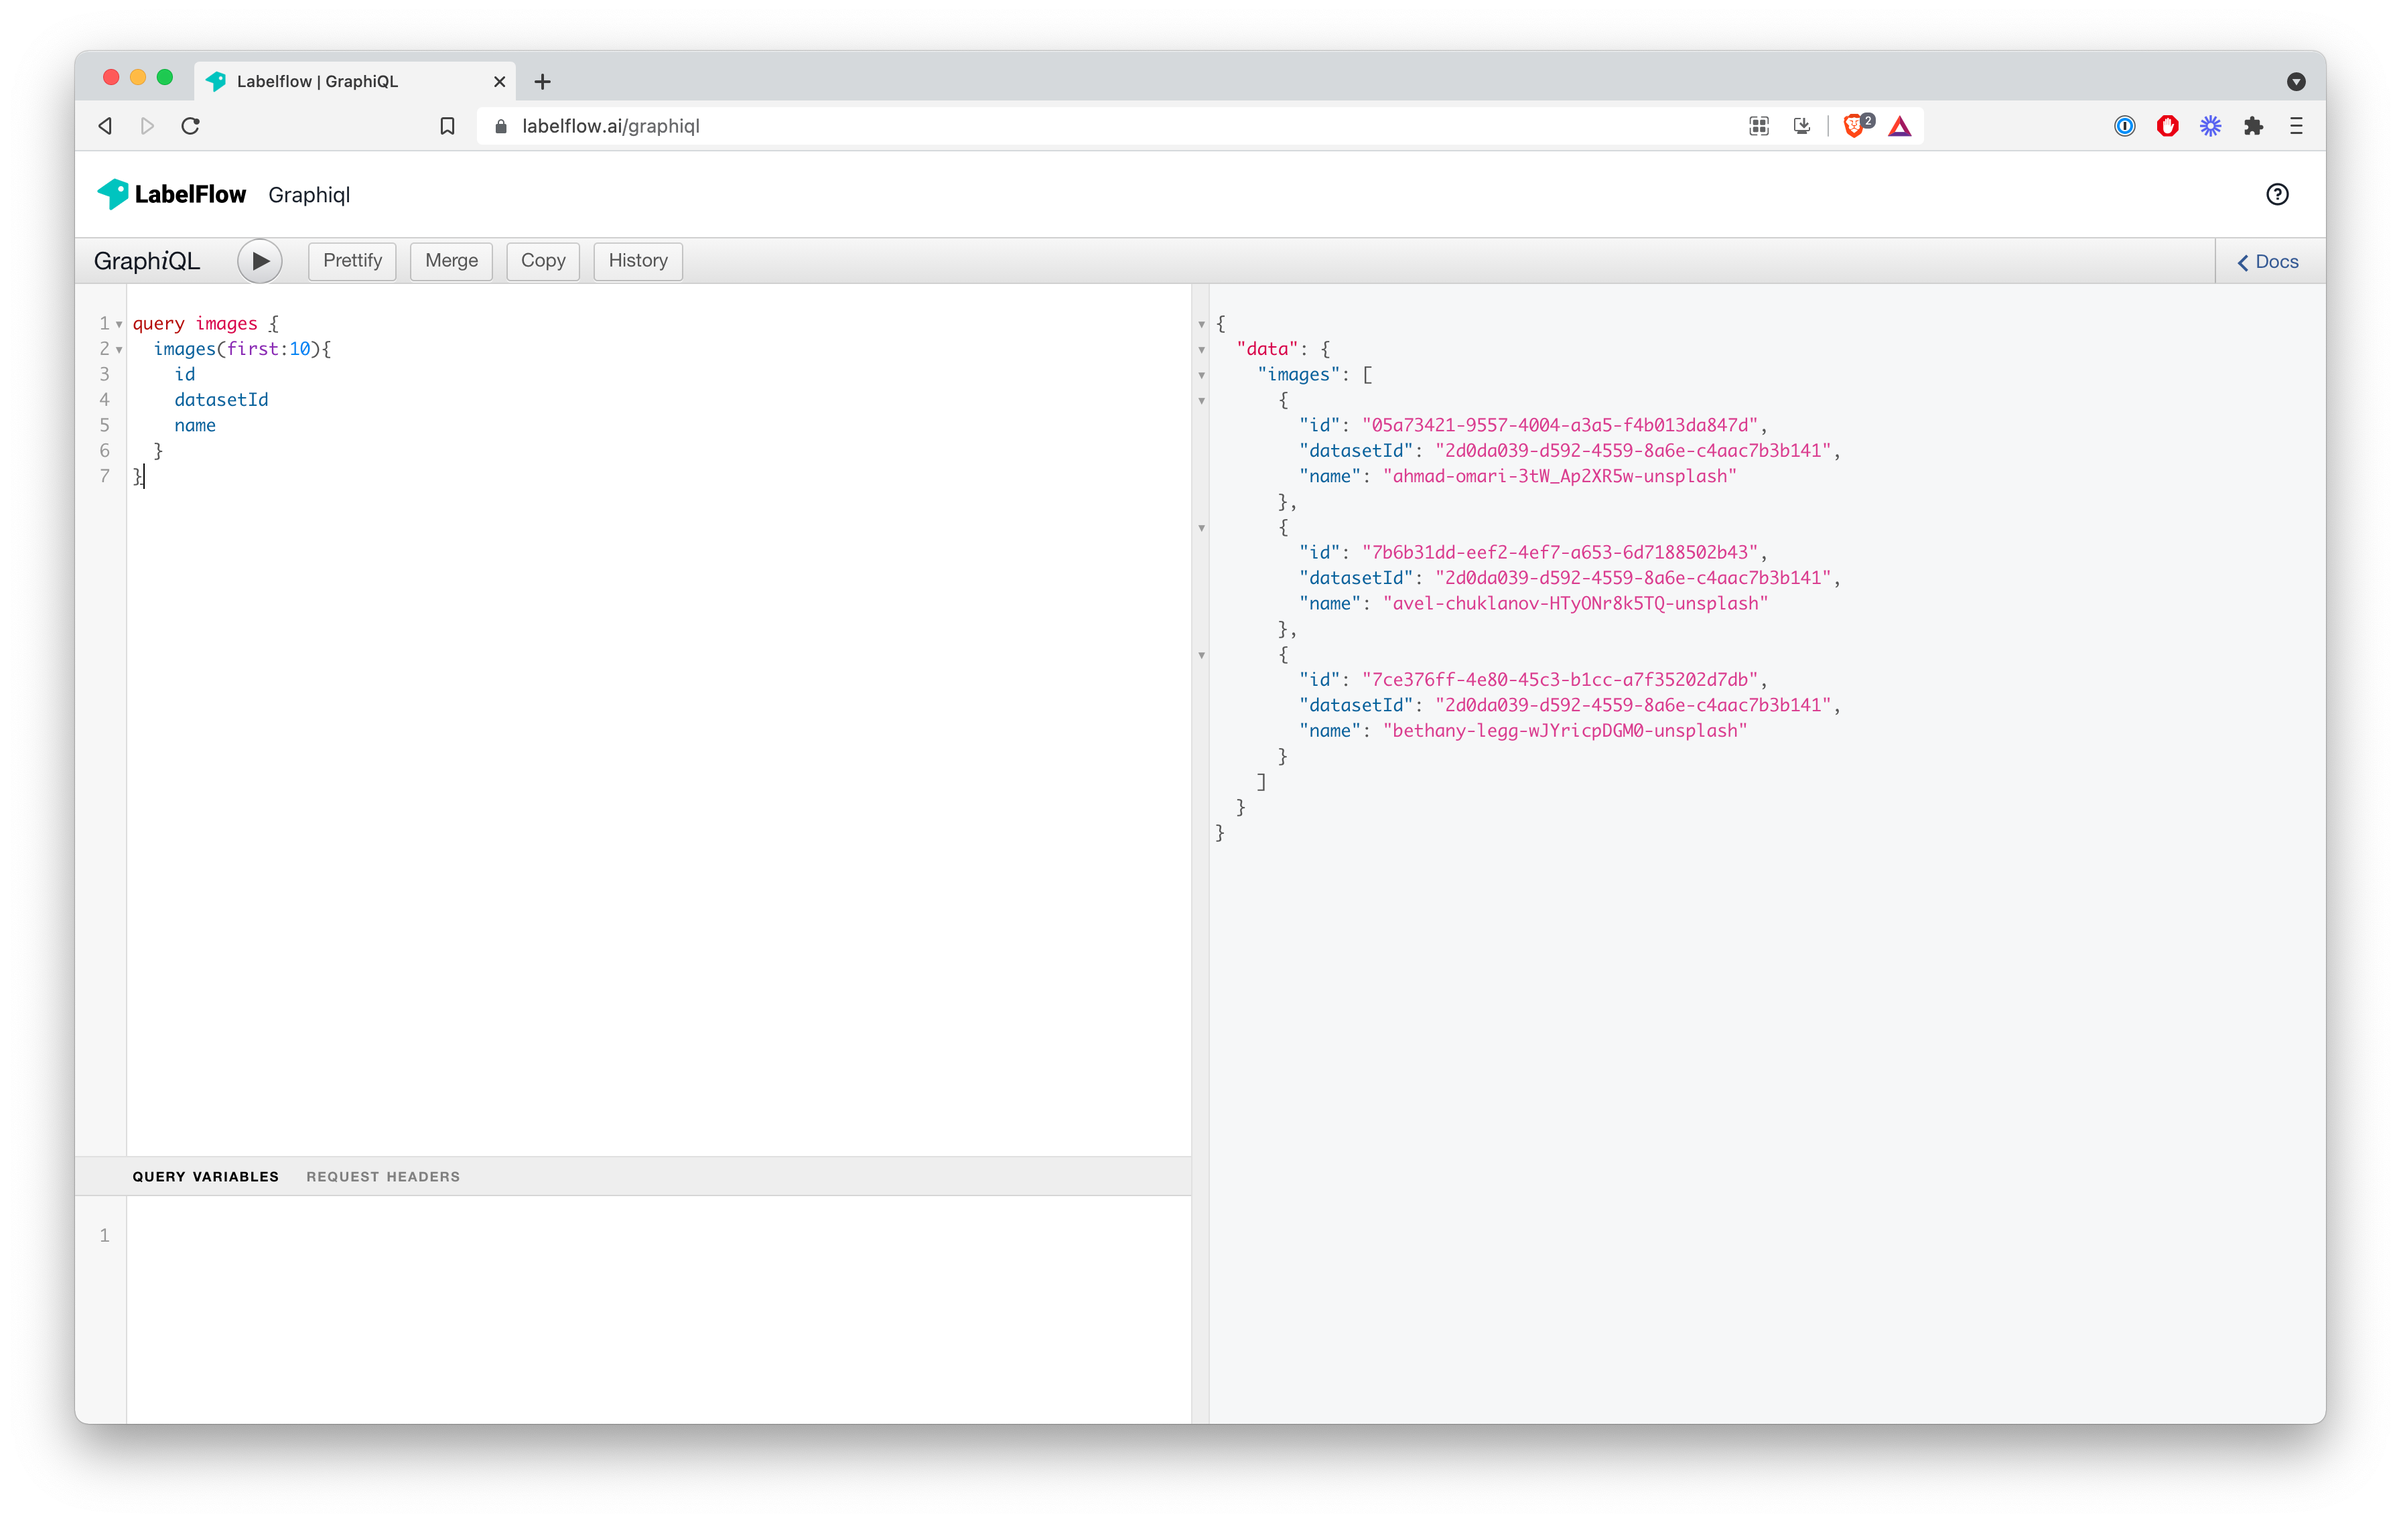
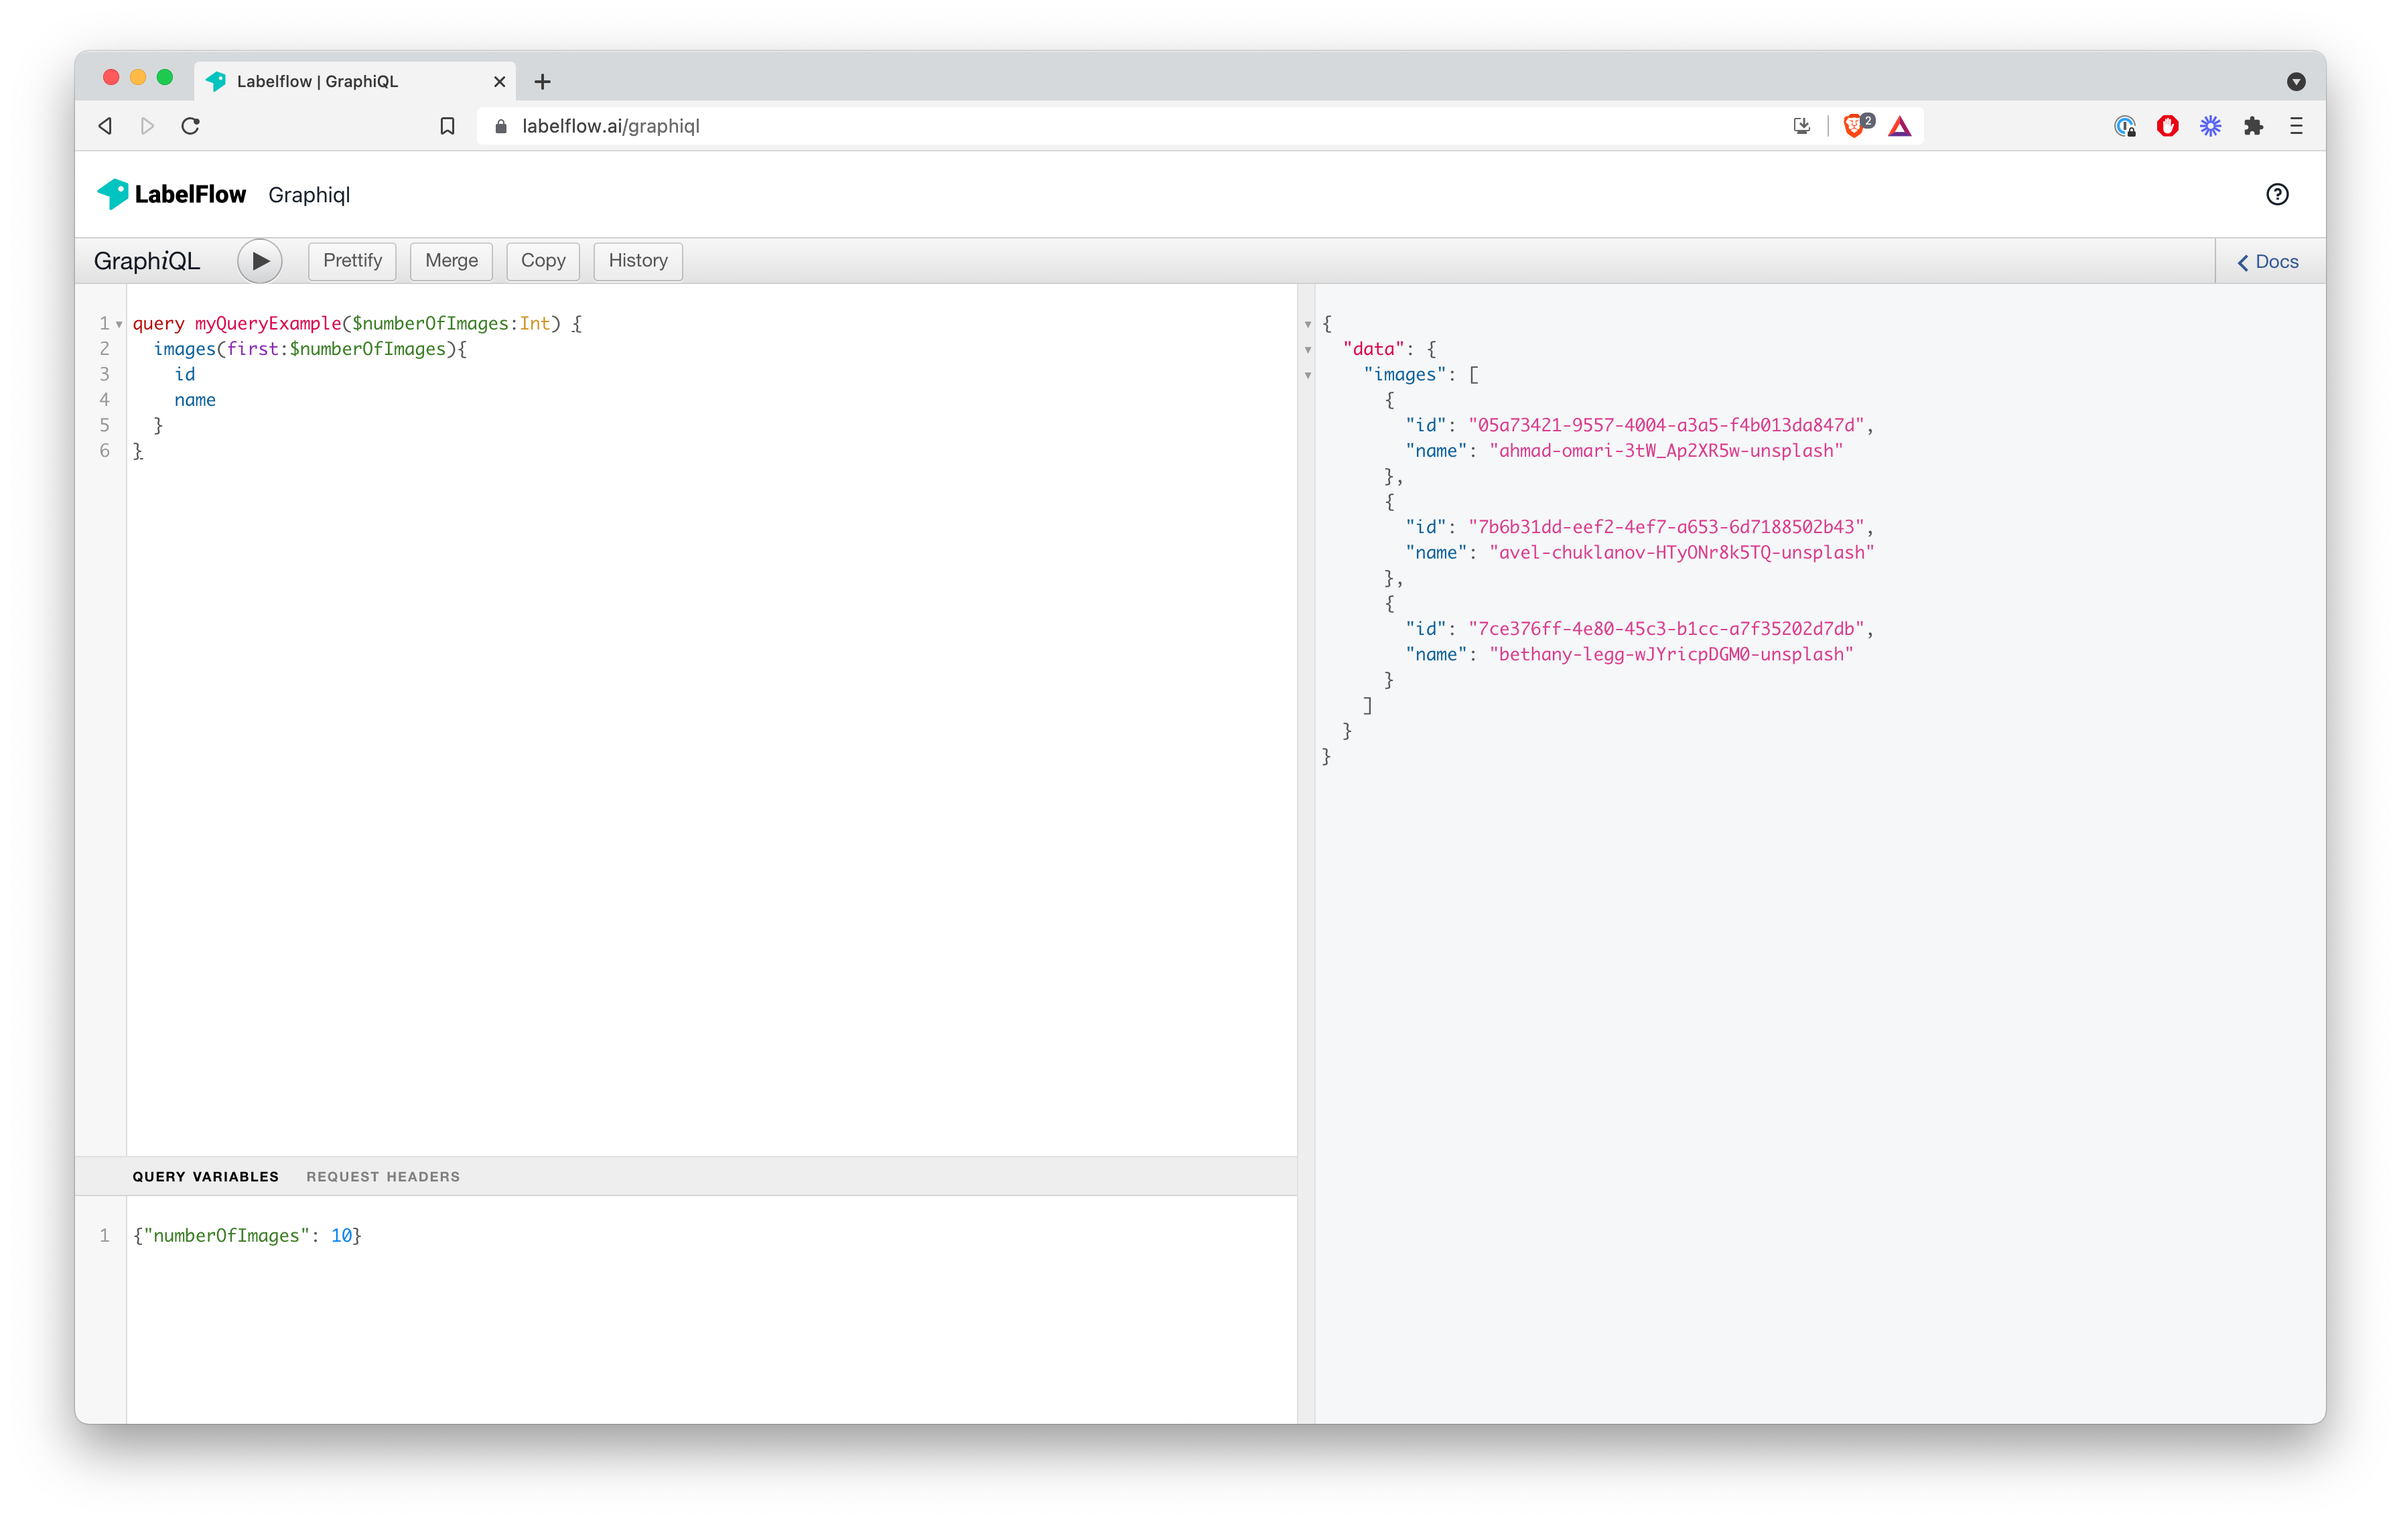
GitBook: [master] 2 pages and 4 assets modified

diff --git a/api/getting-started.md b/api/getting-started.md
@@ -4,7 +4,7 @@
 
 LabelFlow GraphQL playground is the best way to get started with the API. Just connect to [https://labelflow.ai/graphiql](https://labelflow.ai/graphiql) using any modern web browser, and get started. The interface should look like something like this.
 
-![](../.gitbook/assets/image%20%284%29.png)
+![](../.gitbook/assets/image%20%285%29.png)
 
 As the images on LabelFlow are stored locally only, there is not authentication needed. All query and mutations will be done on a database stored locally in your browser.
 
@@ -12,7 +12,7 @@ As the images on LabelFlow are stored locally only, there is not authentication 
 
 Let’s write a graphQL query which asks for the ids**,** names and dataset id of the first 10 images you have access to**:**
 
-![](../.gitbook/assets/image%20%283%29.png)
+![](../.gitbook/assets/image%20%284%29.png)
 
 ```graphql
 query images {
@@ -36,5 +36,5 @@ Our Graph API is self-documented. **You can access all the documentation in the 
 
 Here is a screenshot showcasing both Autocompletion \(on the left side, in the query area\), and the schema documentation \(on the right side, in the sidebar\). Our API is based on the principle of OpenCrud \([https://github.com/opencrud/opencrud](https://github.com/opencrud/opencrud)\).
 
-![](../.gitbook/assets/image%20%285%29.png)
+![](../.gitbook/assets/image%20%286%29.png)
 

diff --git a/api/direct-https-access.md b/api/direct-https-access.md
@@ -1,5 +1,28 @@
 # Direct HTTPS access
 
+While the GraphQL playground is a good way to learn, develop and interact with our Graph API, direct access to the API using HTTPS requests is done in production. 
+
+As an example, here we will consider how to perform the following graphQL query with various tools. Here is the GraphQL query:
+
+```graphql
+query myQueryExample($numberOfImages:Int) {
+  images(first:$numberOfImages){
+    id
+    name
+  }
+}
+```
+
+This query needs some variables to be executed. Here are the variables:
+
+```python
+{"numberOfImages":10}
+```
+
+This query can be executed in the playground like this:
+
+![](../.gitbook/assets/image%20%283%29.png)
+
 ## HTTP
 
 ```http
